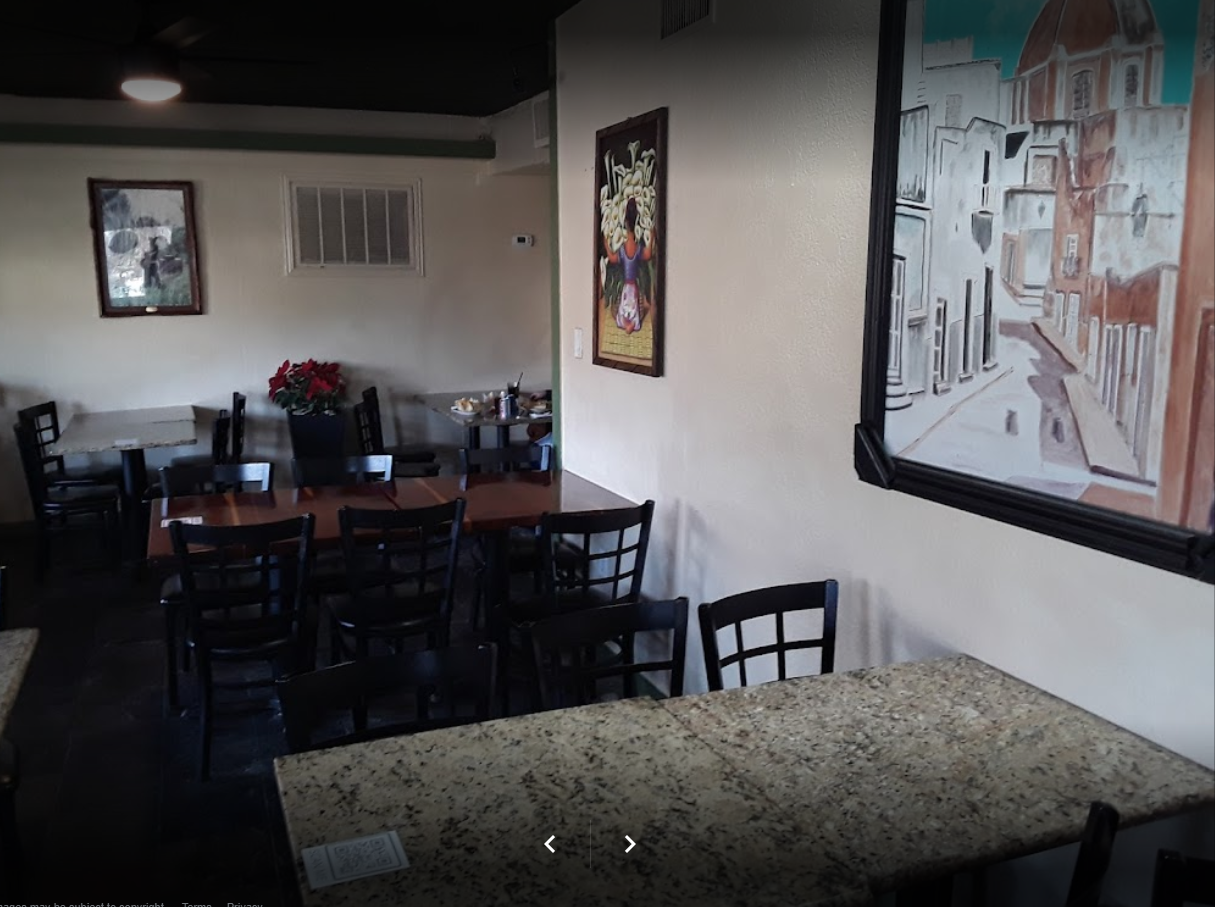
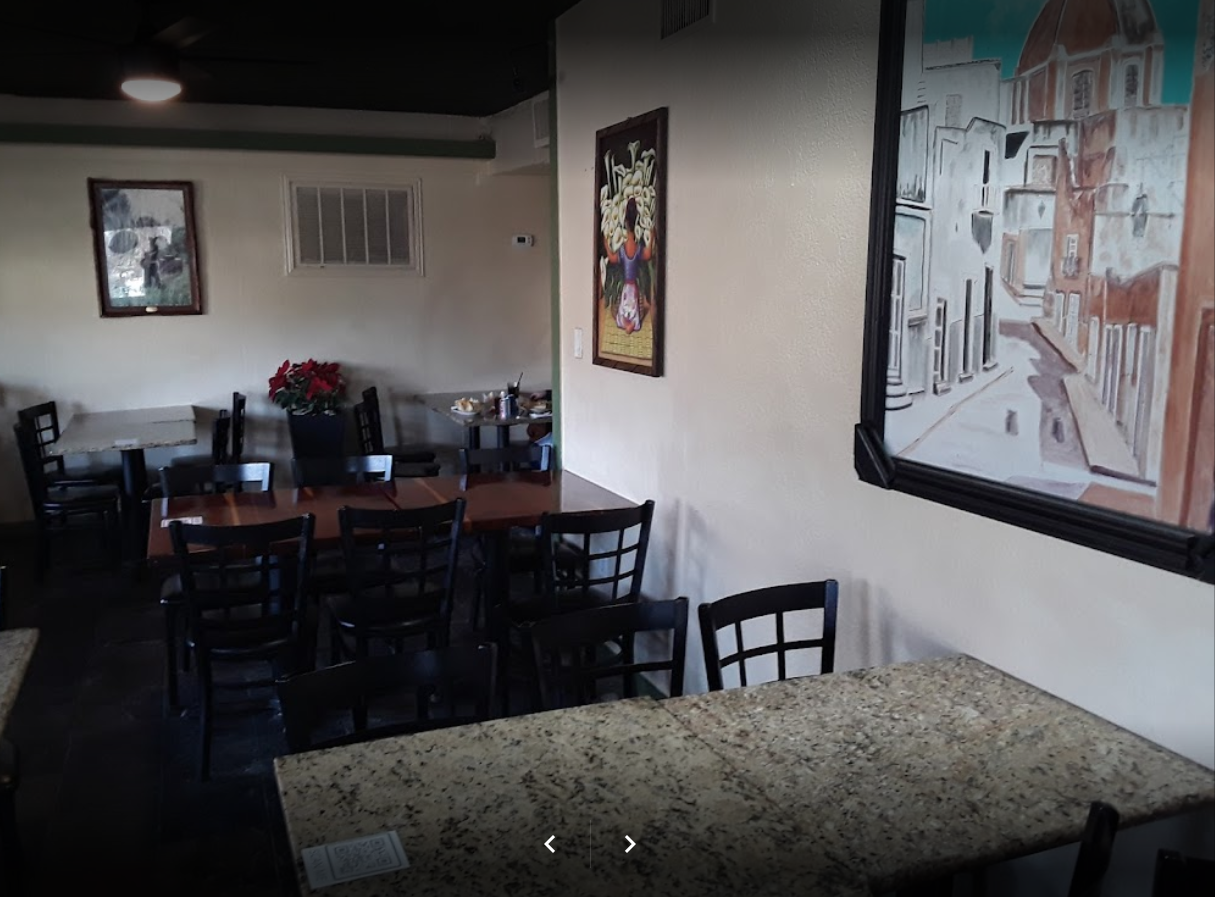
wrong image correction lol

diff --git a/index.html b/index.html
@@ -78,7 +78,7 @@
 
       <div class="bottom">
         <!-- bottom image of inside 2 -->
-        <img src="/images/outside2.png" rel="bottomimage1" alt="outside2">
+        <img src="/images/inside2.png" rel="bottomimage1" alt="inside2">
       </div>
     </div>
   </div>
